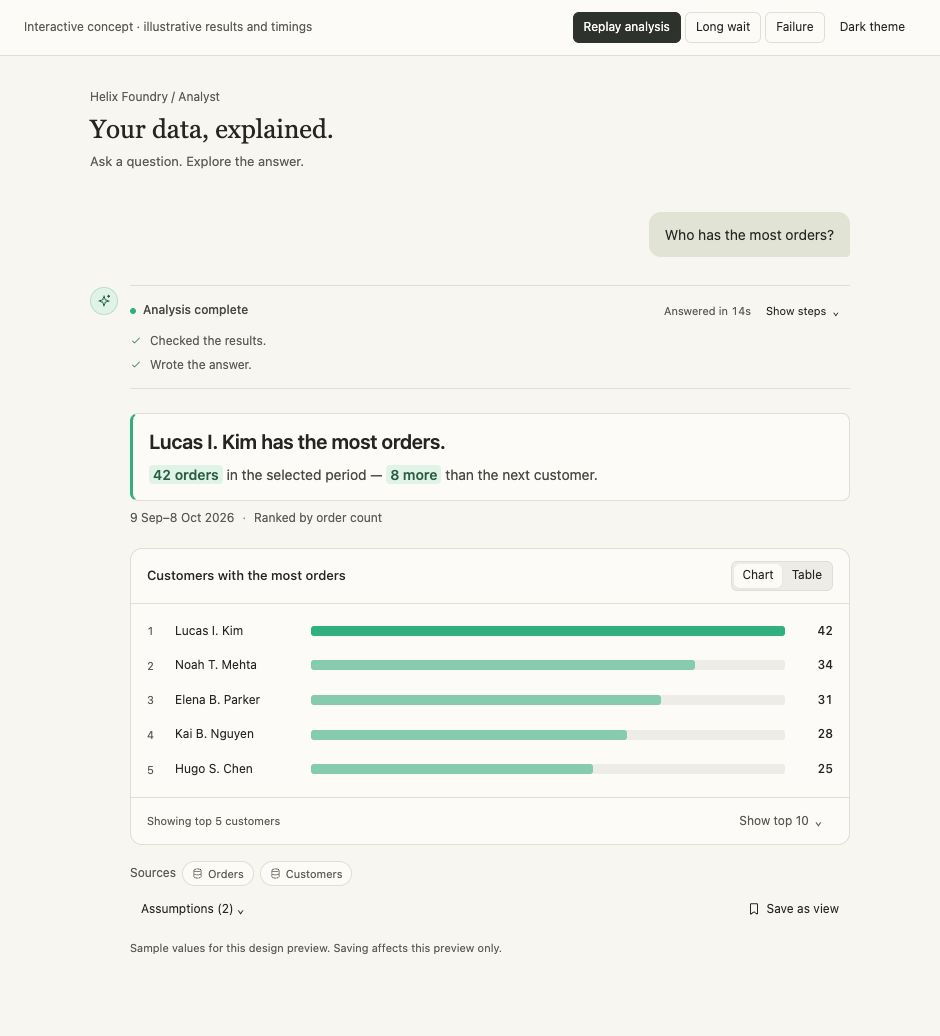
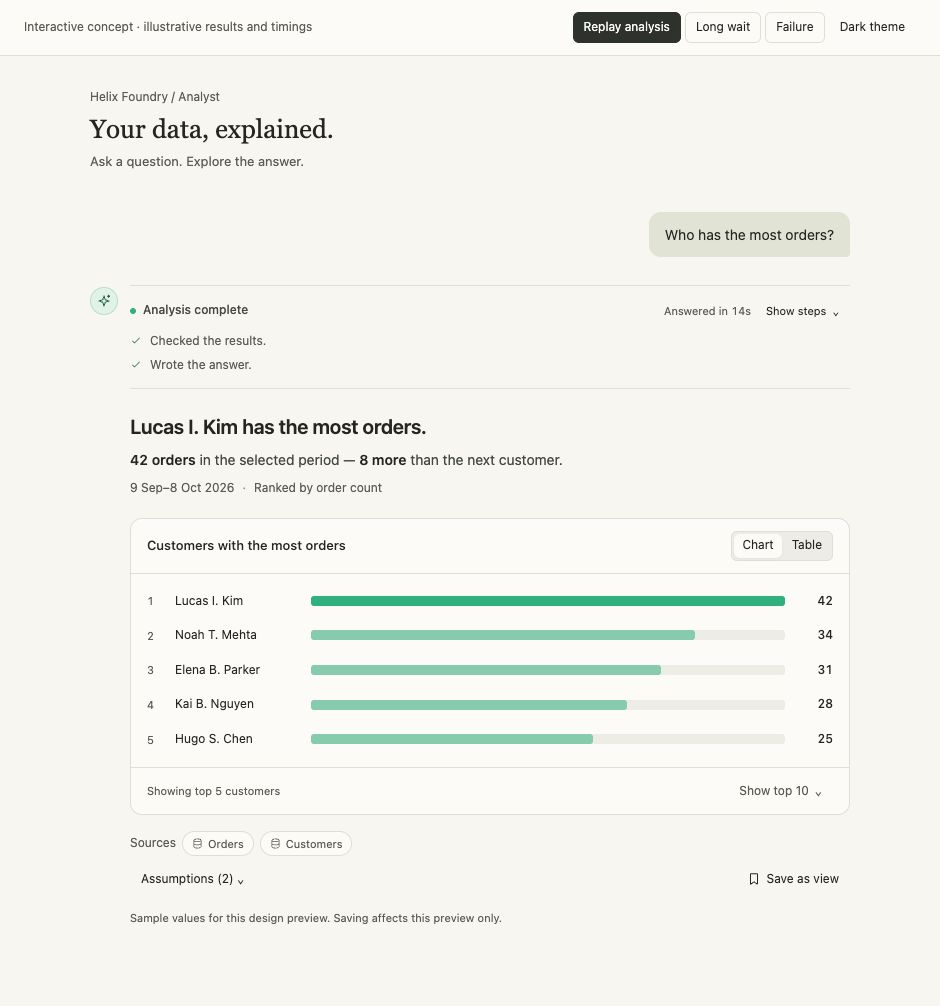
docs: keep Analyst emphasis to bold text on the original background

diff --git a/docs/design/analyst-confidence/analyst-concept.html b/docs/design/analyst-confidence/analyst-concept.html
@@ -155,7 +155,7 @@ main{max-width:808px;padding:32px 24px 80px;margin:auto}.page-head{display:flex;
 @media(max-width:600px){.concept{padding:12px 16px;align-items:start;flex-direction:column;gap:8px}main{padding:24px 16px 48px}.page-head{margin-bottom:28px}.page-head h1{font-size:23px}.reply{grid-template-columns:22px minmax(0,1fr);gap:8px}.avatar{width:22px;height:22px}.avatar svg{width:12px;height:12px}.trace-head{flex-wrap:wrap}.trace-meta{font-size:10px}.trace-tools{margin-left:auto}.answer h2{font-size:18px}.bar-row{grid-template-columns:12px 100px minmax(0,1fr) 28px;gap:6px;font-size:11px}.bars{padding:16px 12px;gap:16px}.panel-head{padding:10px 12px}.panel-foot{padding:8px 12px}td,th{padding:8px 10px}.segment{display:none}.foot{gap:4px}.context{gap:5px;font-size:11px}.question p{font-size:13px}.compact p{font-size:11px}.trace-title{font-size:11px}}
 @media(prefers-reduced-motion:reduce){*{animation:none!important;transition:none!important}}
 .query-detail{border-top:1px solid var(--hf-border);margin-top:16px;padding-top:12px;font-size:12px;color:var(--hf-muted)}.query-detail summary{cursor:pointer;width:fit-content;color:var(--hf-text-2)}.query-detail p{font-size:11px;margin:8px 0}.query-detail pre{margin:8px 0 0;white-space:pre-wrap;overflow-wrap:anywhere;font:11px/1.7 var(--hf-font-mono);padding:12px;border:1px solid var(--hf-border);border-radius:8px;background:var(--hf-sunken);color:var(--hf-text-2)}
-.answer-insight{border:1px solid var(--hf-border);border-left:3px solid var(--hf-accent);border-radius:var(--hf-radius);background:var(--hf-raised);padding:14px 16px}.answer-insight h2{font-weight:600}.answer-lead mark{background:var(--hf-accent-soft);color:var(--hf-accent-text);border-radius:4px;padding:1px 4px;font-weight:600;font-variant-numeric:tabular-nums;box-decoration-break:clone;-webkit-box-decoration-break:clone}@media(max-width:600px){.answer-insight{padding:12px}.answer-insight h2{font-size:16px}.answer-lead{font-size:13px}}
+.answer h2{font-weight:600}
 </style>
 </head>
 <body>
@@ -186,8 +186,8 @@ LIMIT 10;</code></pre></details>
 <div class="sr" role="status" aria-live="polite" id="announcement"></div>
 <p class="waiting" id="waiting" hidden>Your answer will appear here when the checks finish.</p>
 <article class="answer" id="answer">
-<div class="answer-insight"><h2>Lucas I. Kim has the most orders.</h2>
-<p class="answer-lead"><mark>42 orders</mark> in the selected period — <mark>8 more</mark> than the next customer.</p></div>
+<h2>Lucas I. Kim has the most orders.</h2>
+<p class="answer-lead"><strong>42 orders</strong> in the selected period — <strong>8 more</strong> than the next customer.</p>
 <div class="context"><span>9 Sep–8 Oct 2026</span><span class="separator" aria-hidden="true">·</span><span>Ranked by order count</span></div>
 <section class="panel" aria-label="Customers ranked by order count">
 <div class="panel-head"><h3>Customers with the most orders</h3><div class="switch" aria-label="Result view"><button class="btn" id="chart-switch" aria-pressed="true">Chart</button><button class="btn" id="table-switch" aria-pressed="false">Table</button></div></div>

diff --git a/docs/design/analyst-confidence/README.md b/docs/design/analyst-confidence/README.md
@@ -5,7 +5,7 @@ Standalone, dependency-free HTML prototype. Open analyst-concept.html in a brows
 - Compact, dynamic preview: two to three major steps, expandable.
 - Expansion contains four steps: understand the question, analyze orders, check results, write the answer. No tabs or separate calculation section.
 - Query details appear only inside the expansion and are themselves collapsed by default.
-- Highlight the primary answer and important quantities with restrained mint emphasis.
+- Highlight the primary answer and important quantities using bold text only; preserve the existing paper background.
 - Show a useful chart and focused table with visible measures.
 - Timing hints in production must come from measured similar runs; otherwise show phase and elapsed time. The preview's 10–20 seconds is not a real service promise.
 - Reuse Helix tokens and docs/DESIGN.md conventions, including keyboard focus, dark mode and mobile wrapping.
